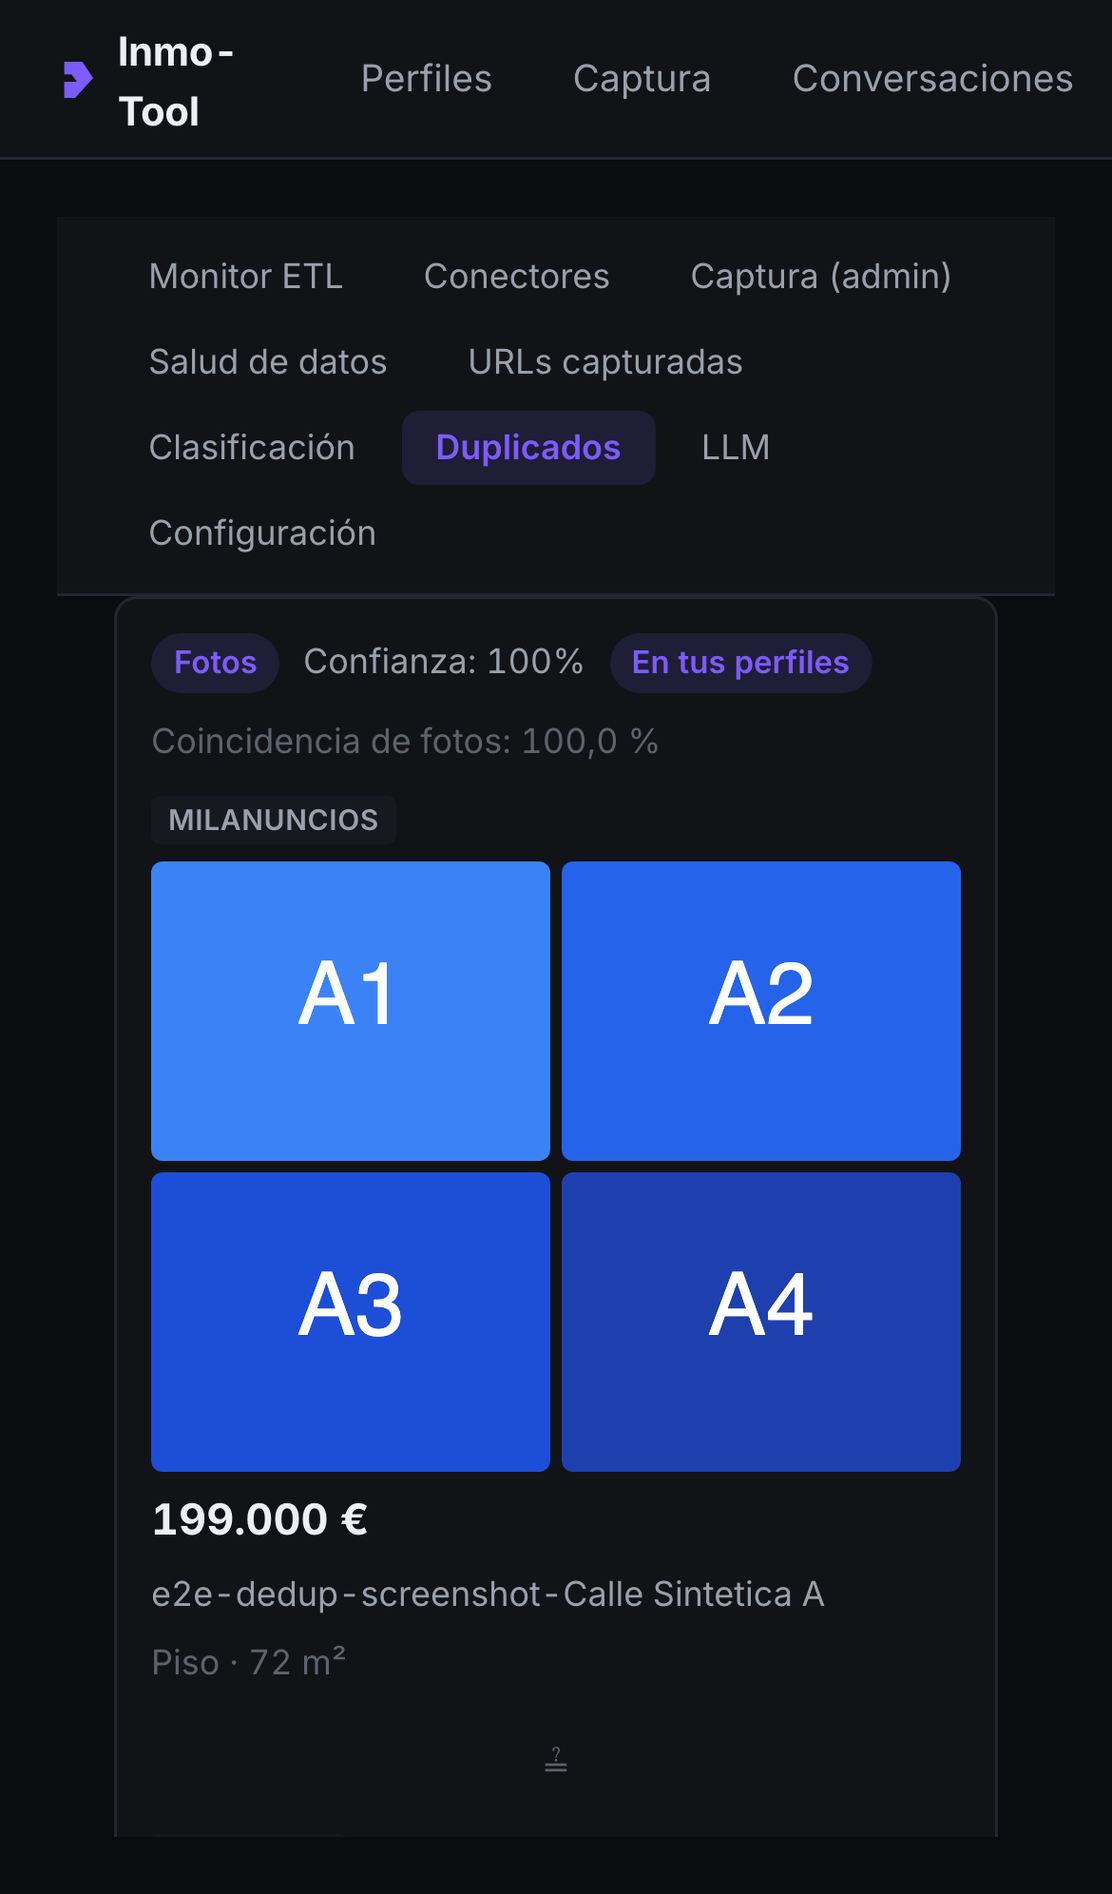
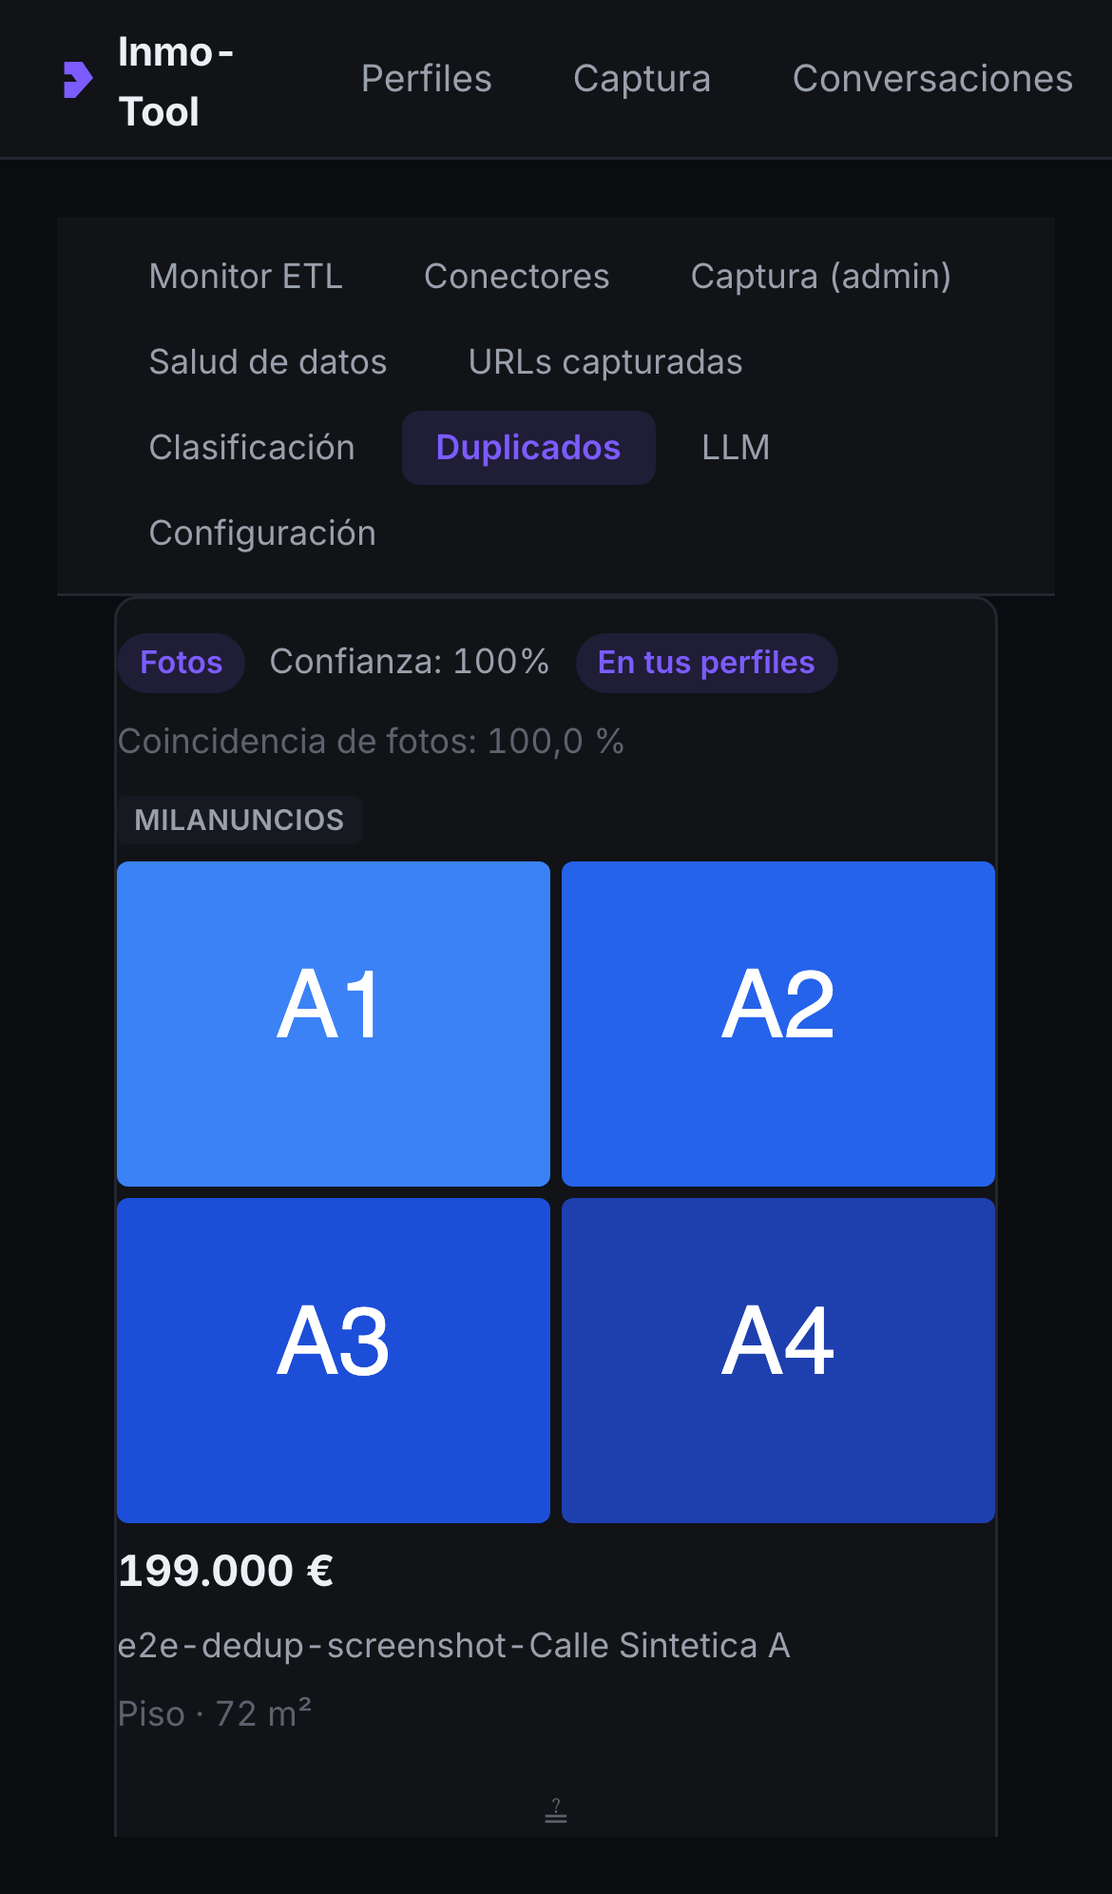
Address #579 review: drop !important, reach 300px panels, D-122
Review of #579+#580 as a pair found both PRs reaching for the wrong
fix for the same problem (an inline style value that must differ only
below 768px): #579 used !important, #580 used :root CSS custom
properties. Both were solving a specificity fight that only exists if
the inline declaration stays — every value in dispute here was a
static literal (padding, gridTemplateColumns), so it just moves out of
the inline style object into the component's class, base value +
media-query override, no specificity conflict, no !important.

- .dedup-page / .dedup-card / .dedup-photo-grid / .dedup-action-btn
  padding and grid-template-columns move from inline styles into
  globals.css classes (base rule = desktop's old literal, mobile
  override in the existing @media (max-width: 767px) block). Zero
  !important anywhere in the new block (globals.css previously had
  exactly one, in @media print, untouched).
- Trims .dedup-card's own horizontal padding to 0 below 768px (was
  4px) to actually clear issue #576's stated "panels >=300px at 390px"
  bar — measured 308px locally, not just "bigger than the old bug".
  mobile-dedup.spec.ts's threshold moves from a loose 220px to 300px
  (the issue's real bar, not a rebuilt-value duplicate); photo cell
  thresholds tighten from 90x60 to 130x95 for the same reason. Proved
  the tightened threshold actually catches a regression: reverting
  only the card's mobile padding back to non-zero measured 284px
[…]

diff --git a/dashboard/app/globals.css b/dashboard/app/globals.css
@@ -527,19 +527,66 @@ body {
    ============================================================
    SuggestionCard's comparison row is `display:flex; flexWrap:"wrap"` with
    each ListingSidePanel now at `flex: 1 1 280px` (inline style, see the
-   component) — real wrapping below ~600px of row width. These rules only
-   adjust what happens ONCE that wrap has already occurred; the wrap
-   threshold itself lives in the panel's own flex-basis. 768px matches this
+   component) — real wrapping below ~600px of row width. That flex-basis
+   stays inline (it's the same value at every width, not a breakpoint
+   divergence) — everything below IS a breakpoint divergence, so it follows
+   D-121's ladder: every value here was a static literal with no prop/state
+   dependency, so each one was simply DELETED from the component's inline
+   `style` object and now lives here instead — a plain class fully owns it,
+   with no inline declaration left to out-specificity, so no `!important`
+   is needed anywhere in this block (see D-122). 768px matches this
    project's only other documented mobile/desktop split (issue #576's
    "desktop >=768px pixel-identical" constraint) — chosen here as the
-   authoritative breakpoint rather than inferring one from a component. */
+   authoritative breakpoint rather than inferring one from a component.
+
+   Two more padding layers stack around this page below 768px besides the
+   one this block removes: `main.main-content` (global app shell, every
+   page) and `AdminChrome`'s own content div (every /admin/* page, e.g.
+   /admin/llm has the identical stack). Both are correctly out of #576's
+   scope (touching either would affect far more than this one page) — see
+   D-122 for the follow-up note. */
+
+/* Base (desktop and mobile both start here): AdminChrome
+   (app/admin/AdminChrome.tsx) already wraps every /admin/* page's children
+   in its own `padding: var(--pad)` div — this class is what used to be
+   this page's OWN matching (and redundant) inline padding, now here
+   instead so the mobile override below can zero it. */
+.dedup-page {
+  padding: var(--pad);
+}
+
+/* The comparison-card shell. Desktop value matches what shipped before
+   this class existed. */
+.dedup-card {
+  padding: 12px;
+}
+
+/* Desktop: 4 photos across. Matches the shape this always rendered at. */
+.dedup-photo-grid {
+  grid-template-columns: repeat(4, 1fr);
+}
+
+/* Confirm/reject desktop sizing — unchanged from before this class
+   existed. */
+.dedup-action-btn {
+  padding: 6px 14px;
+}
+
 @media (max-width: 767px) {
-  /* AdminChrome already applies padding: var(--pad) around every /admin/*
-     page's content — this page's own matching inline padding is a second,
-     redundant layer (see the component's comment). !important is required
-     to beat the inline `padding` style. */
+  /* AdminChrome's own padding layer still applies (see the block comment
+     above) — this just stops THIS page's layer from doubling it, which on
+     a 390px phone was costing the comparison panels real width. */
   .dedup-page {
-    padding: 0 !important;
+    padding: 0;
+  }
+
+  /* Recovers more of that width: issue #576's own bar is panels >=300px at
+     390px, not just "bigger than the ~140px bug" — trimming the card's own
+     horizontal breathing room (vertical unchanged) closes the remaining
+     gap once AdminChrome's + main-content's untouched padding layers are
+     accounted for. */
+  .dedup-card {
+    padding: 12px 0;
   }
 
   /* The "≟" separator between the two panels: without this it would
@@ -549,21 +596,20 @@ body {
     flex-basis: 100%;
   }
 
-  /* 4 thumbnails across a ~300-350px stacked panel are too small to
-     compare visually (#576's root complaint) — 2 columns roughly doubles
-     each thumbnail's width and height. Desktop keeps the inline
-     repeat(4, 1fr) untouched. */
+  /* 4 thumbnails across a stacked mobile panel are too small to compare
+     visually (#576's root complaint) — 2 columns roughly doubles each
+     thumbnail's width and height. Desktop keeps the 4-column base rule
+     above, untouched. */
   .dedup-photo-grid {
-    grid-template-columns: repeat(2, 1fr) !important;
+    grid-template-columns: repeat(2, 1fr);
   }
 
   /* Confirm/reject are a destructive-ish action taken with a thumb — WCAG
-     2.5.5's 44px minimum target size, not just the ~29px this padding/
-     font-size alone produce. !important is required to beat the inline
-     `padding` style (see the component's dedup-actions-row comment). */
+     2.5.5's 44px minimum target size, not just the ~29px the desktop
+     padding/font-size alone produce. */
   .dedup-action-btn {
     min-height: 44px;
-    padding: 12px 16px !important;
+    padding: 12px 16px;
     display: inline-flex;
     align-items: center;
     justify-content: center;

diff --git a/dashboard/e2e/mobile-dedup.spec.ts b/dashboard/e2e/mobile-dedup.spec.ts
@@ -201,22 +201,26 @@ test.describe("#576: /admin/dedup at phone width (iPhone 13 emulation)", () => {
       expect(panelBBox!.y).toBeGreaterThan(panelABox!.y + panelABox!.height - 1);
 
       // Each panel is close to the full available row width, not squeezed
-      // to a ~140px sliver (the old flex-basis-0 bug). 220px is comfortably
-      // below what a fixed #576 layout renders (~280-300px+ measured
-      // locally) and comfortably above the ~140px the bug produced.
-      expect(panelABox!.width).toBeGreaterThanOrEqual(220);
-      expect(panelBBox!.width).toBeGreaterThanOrEqual(220);
+      // to a ~140px sliver (the old flex-basis-0 bug). 300px is issue
+      // #576's own stated bar (not just "bigger than the bug") — this
+      // layout ships at ~308px locally, so there's a real but tight margin;
+      // tightening further would make the assertion chase this specific
+      // build's rounding rather than the actual requirement.
+      expect(panelABox!.width).toBeGreaterThanOrEqual(300);
+      expect(panelBBox!.width).toBeGreaterThanOrEqual(300);
 
-      // Photos: legible, not ~32px thumbnails. 90px is well below the
-      // ~105-140px a fixed layout renders and well above the old bug's ~32px.
+      // Photos: legible, not ~32px thumbnails. 130x95 is comfortably below
+      // the ~148x111 a fixed layout renders locally and comfortably above
+      // the old bug's ~32px, so it still catches a regression partway back
+      // toward the bug without pinning this exact build's pixel values.
       const photos = card.locator(".dedup-photo-grid img");
       const photoCount = await photos.count();
       expect(photoCount).toBeGreaterThan(0);
       for (let i = 0; i < photoCount; i++) {
         const box = await photos.nth(i).boundingBox();
         expect(box).not.toBeNull();
-        expect(box!.width).toBeGreaterThanOrEqual(90);
-        expect(box!.height).toBeGreaterThanOrEqual(60);
+        expect(box!.width).toBeGreaterThanOrEqual(130);
+        expect(box!.height).toBeGreaterThanOrEqual(95);
       }
 
       // No horizontal overflow of the PAGE CONTENT this PR owns. Checked in

diff --git a/dashboard/components/dedup/SuggestionCard.tsx b/dashboard/components/dedup/SuggestionCard.tsx
@@ -67,7 +67,7 @@ function ListingSidePanel({ side }: { side: DedupListingSide }) {
         // comparison. .dedup-photo-grid switches to 2 columns below 768px
         // (globals.css) so each thumbnail roughly doubles in both
         // dimensions; desktop keeps repeat(4, 1fr) unchanged.
-        <div className="dedup-photo-grid" style={{ display: "grid", gridTemplateColumns: "repeat(4, 1fr)", gap: 4 }}>
+        <div className="dedup-photo-grid" style={{ display: "grid", gap: 4 }}>
           {photos.map((url, i) => (
             // eslint-disable-next-line @next/next/no-img-element -- external, unpredictable-domain listing photos
             <img
@@ -221,6 +221,7 @@ export function SuggestionCard({
 
   return (
     <div
+      className="dedup-card"
       data-testid="dedup-suggestion-card"
       data-suggestion-id={suggestion.id}
       data-match-basis={suggestion.match_basis}
@@ -229,7 +230,6 @@ export function SuggestionCard({
         border: "1px solid var(--border)",
         borderRadius: 8,
         background: "var(--bg-1)",
-        padding: 12,
         display: "flex",
         flexDirection: "column",
         gap: 10,
@@ -313,7 +313,6 @@ export function SuggestionCard({
           disabled={pendingAction !== null}
           onClick={() => submit("reject")}
           style={{
-            padding: "6px 14px",
             borderRadius: 6,
             fontSize: 13,
             cursor: pendingAction !== null ? "default" : "pointer",
@@ -332,7 +331,6 @@ export function SuggestionCard({
           disabled={pendingAction !== null}
           onClick={() => submit("confirm")}
           style={{
-            padding: "6px 14px",
             borderRadius: 6,
             fontSize: 13,
             fontWeight: 600,

diff --git a/dashboard/app/admin/dedup/page.tsx b/dashboard/app/admin/dedup/page.tsx
@@ -8,16 +8,14 @@ export default function DedupReviewPage() {
   return (
     // dedup-page: AdminChrome (app/admin/AdminChrome.tsx) already wraps every
     // /admin/* page's children in its own `padding: var(--pad)` div — this
-    // div's OWN padding doubles that up. At desktop width that's just extra
-    // margin (left as-is: touching it isn't in scope, and AdminChrome is
-    // shared by every admin page, not just this one), but on a 390px phone
-    // that redundant second 20px-per-side was costing the comparison panels
-    // real width (#576: panels measured 244px instead of the ~300px+ target
-    // with it removed). .dedup-page zeroes ITS OWN padding below 768px only
-    // (globals.css) — AdminChrome's single padding layer still applies, so
-    // spacing doesn't disappear, it just stops doubling. Desktop (>=768px)
-    // is untouched.
-    <div className="dedup-page" style={{ padding: "var(--pad)", maxWidth: 900 }}>
+    // page used to apply a second, matching padding of its own on top of
+    // that (a real double-padding bug, not just cosmetic — see D-122). The
+    // `padding` value now lives entirely in the .dedup-page class
+    // (globals.css) instead of here: desktop keeps the exact same var(--pad)
+    // value, and the mobile override zeroes THIS page's layer only —
+    // AdminChrome's own padding layer still applies underneath, so spacing
+    // doesn't disappear, it just stops doubling.
+    <div className="dedup-page" style={{ maxWidth: 900 }}>
       <h1 style={{ fontSize: 20, fontWeight: 700, color: "var(--fg)", marginBottom: 6 }}>
         Revisión de duplicados
       </h1>

diff --git a/docs/decisions/D-122-flexwrap-basis-zero-inert.md b/docs/decisions/D-122-flexwrap-basis-zero-inert.md
@@ -1,0 +1,91 @@
+---
+id: D-122
+title: "flexWrap + flex:1 (basis 0%) never wraps — minWidth:0 makes it fully inert, not just less likely"
+date: 2026-08-20
+group: UI / frontend
+rule: "Never rely on `flexWrap: \"wrap\"` plus children at `flex: 1` (flex-basis 0%) to produce a stack at narrow widths — flexbox collects items into lines using each item's hypothetical (basis) size, computed BEFORE any grow/shrink, so basis-0 siblings always \"fit\" on one line by shrinking instead of ever wrapping. If those same children also carry `minWidth: 0`, the wrap is not just unlikely, it is fully inert: without it, a flex item's default `min-width: auto` resolves to its min-content size and the row would still wrap once min-content sizes stopped fitting. Give a child that must wrap a real non-zero `flexBasis` instead."
+---
+
+# D-122: flexWrap + flex:1 (basis 0%) never wraps — minWidth:0 makes it fully inert, not just less likely
+
+*Decided: 2026-08-20*
+
+**Context**: Issue #576 — `/admin/dedup`'s two-listing comparison
+(`SuggestionCard.tsx`) was unusable at phone width. The comparison row was
+`display: flex; flexWrap: "wrap"`, which looked like it should stack on a
+narrow screen, but each `ListingSidePanel` was `flex: 1` — shorthand for
+`flex: 1 1 0%`, i.e. flex-basis **0** — and also carried `minWidth: 0` (set
+originally so the panel's own text children could ellipsis-truncate instead
+of forcing the row wider). At 390px the two panels rendered side-by-side at
+~140px each, and the `repeat(4, 1fr)` photo grid inside produced ~32px
+thumbnails. Nothing overflowed and nothing errored — it silently degraded.
+
+A flex-wrap decision is made against each item's *hypothetical* main size
+(clamped by its `min-width`/`max-width`), computed before flex-grow/shrink
+are resolved — not against its final, post-grow rendered size. With
+`flexBasis: 0` and no `minWidth` override, an item's hypothetical size would
+still be its min-content size (browsers clamp the effective minimum to
+`min-content` under automatic sizing even when the specified basis is 0),
+which for a panel full of images and text is nowhere near 0 — the row would
+likely still wrap once enough min-content sizes stacked up past the
+container width. It was specifically the *combination* with `minWidth: 0`
+that removed that floor and made the wrap decision see a hypothetical size
+of 0 for every panel, so two (or more) panels always "fit" on one line no
+matter how narrow the container — reproduced directly in review: reverting
+only `flex: "1 1 280px"` back to `flex: 1` (leaving `minWidth: 0` in place)
+was enough on its own to break the wrap and fail the mobile e2e spec with
+real geometry numbers (panel width 415.5 vs an expected >586 combined row
+width, confirm/reject tap target 33.5 vs the required 44).
+
+**Decision**: A flex item that must wrap at some container width needs a
+real `flexBasis` close to its natural minimum width — never `flex: 1` (or
+any basis-0 shorthand) relying on `flexWrap: "wrap"` alone, and never in
+combination with `minWidth: 0` without also setting a real basis, since that
+specific combination is what makes the wrap fully inert rather than merely
+narrower-than-ideal. When two (or more) siblings share the same basis and
+grow factor, the resolved width **above** the wrap threshold is provably
+identical to the old basis-0 behaviour (both converge to an equal split of
+the remaining space) — this is safe to apply even under a hard
+"desktop-must-stay-pixel-identical" constraint; verify a container width at
+the target breakpoint boundary has comfortable slack over the summed bases,
+not just that it happens to fit today.
+
+This record is narrower than an earlier draft (superseded before merge) that
+also covered *where* mobile-only CSS overrides for values like grid column
+count and per-page padding should live — that convention landed first as its
+own decision from the sibling `/profiles` mobile PR (#580) and is not
+duplicated here; this record covers only the flex-wrap mechanism itself.
+
+Two more padding layers stack around `/admin/dedup` below 768px besides the
+one #576 removed (the page's own redundant `padding: var(--pad)`, on top of
+`AdminChrome`'s identical padding): the global app shell's
+`main.main-content` padding, and `AdminChrome`'s own content-div padding —
+both shared by every page (`main.main-content`) or every `/admin/*` page
+(`AdminChrome`, e.g. `/admin/llm` has the identical stack), and both
+correctly out of #576's scope. Noted here as a real, not-yet-filed follow-up
+rather than silently dropped.
+
+**Alternatives rejected**: `grid-template-columns:
+repeat(auto-fit, minmax(Npx, 1fr))` to make the photo grid's column count
+fall out of available width with no breakpoint at all — rejected because
+with only 4 grid items and no explicit column count, whether an `auto-fit`
+track collapses depends on spec details (empty-track collapsing interacting
+with `1fr` distribution) that are easy to get subtly wrong, and the
+desktop-pixel-identical constraint left no room for an unverified edge case.
+
+**Rationale**: The flex-basis-0-defeats-wrap trap is explicitly called out
+in issue #576 itself as a "root cause pattern to remember repo-wide," and
+the `minWidth: 0` interaction specifically is easy to miss on a second read
+(it looks like an unrelated truncation fix, not part of the wrap bug) —
+worth naming precisely, with the reviewer's own stricter reproduction as
+evidence, so the next mobile-aware screen in this batch (#572, #574, #575)
+recognizes the exact shape rather than just "flex wrap sometimes doesn't
+work."
+
+**See**: issue #576, `dashboard/components/dedup/SuggestionCard.tsx`,
+`dashboard/app/admin/dedup/page.tsx`, `dashboard/app/globals.css`,
+`dashboard/e2e/mobile-dedup.spec.ts`. Issue #572 / its PR #580 records the
+sibling decision for where a mobile-only value divergence should live in an
+inline-styled component — not yet merged as of this writing, so not linked
+by filename here to avoid a dangling cross-reference; reconcile/cross-link
+once it lands.

diff --git a/DECISIONS.md b/DECISIONS.md
@@ -153,10 +153,10 @@
 | ID | Binding rule |
 |----|--------------|
 | [D-120](docs/decisions/D-120-mobile-breakpoint-inline-style-precedence.md) | Mobile breakpoint is Tailwind's default `md:` (768px). On components mixing inline styles with Tailwind, use Tailwind ONLY for `hidden`/`md:*` display toggling — never set `display` inline on an element that also carries a responsive display class, or the inline style wins and silently defeats the breakpoint. Other inline properties (color, fontSize) are fine — the collision is per-property. |
-| [D-121](docs/decisions/D-121-dedup-mobile-comparison-layout.md) | `flexWrap: 'wrap'` on children with `flex: 1` (basis 0%) never wraps — give the wrapping children a real non-zero `flexBasis` instead. Layout that must differ ONLY below the mobile breakpoint (grid column count, a page's own redundant padding) goes in a `@media (max-width: 767px)` CSS-class override in `globals.css`, never an inline style, since inline styles apply unconditionally and would also change the ≥768px look this project requires to stay pixel-identical. |
 
 ## UI / frontend
 
 | ID | Binding rule |
 |----|--------------|
 | [D-121](docs/decisions/D-121-inline-style-phone-breakpoint-css-vars.md) | When an inline-styled dashboard component needs a value to differ only below 768px: if the value is a static literal (no prop/state dependency), delete it from the inline style object and let a component class own it (base rule + `@media (max-width: 767px)` override in globals.css) — this project's tokens (`--pad`, `--gap`, `--kpi-pad`, `--accent`) already prove classes can hold breakpoint-varying values with zero specificity fight against an inline style that no longer declares the property. Only when the inline declaration must stay (its value is computed from props/state) does it become a `:root` custom property, default = the desktop literal, flipped under the same media query, read via `var(--x, same literal)` inside the inline `style` prop — the escape hatch, not the default: unlike a class rule, a `var()` reference is silently defeatable by a later inline edit that types the desktop literal back in (a natural, correct-looking change that matches desktop exactly), and nothing fails except a visual regression only `mobile-profiles.spec.ts` would catch — and that spec doesn't run in CI. Never `!important`, and never duplicate the element behind a Tailwind `hidden md:flex` toggle. |
+| [D-122](docs/decisions/D-122-flexwrap-basis-zero-inert.md) | Never rely on `flexWrap: "wrap"` plus children at `flex: 1` (flex-basis 0%) to produce a stack at narrow widths — flexbox collects items into lines using each item's hypothetical (basis) size, computed BEFORE any grow/shrink, so basis-0 siblings always "fit" on one line by shrinking instead of ever wrapping. If those same children also carry `minWidth: 0`, the wrap is not just unlikely, it is fully inert: without it, a flex item's default `min-width: auto` resolves to its min-content size and the row would still wrap once min-content sizes stopped fitting. Give a child that must wrap a real non-zero `flexBasis` instead. |
